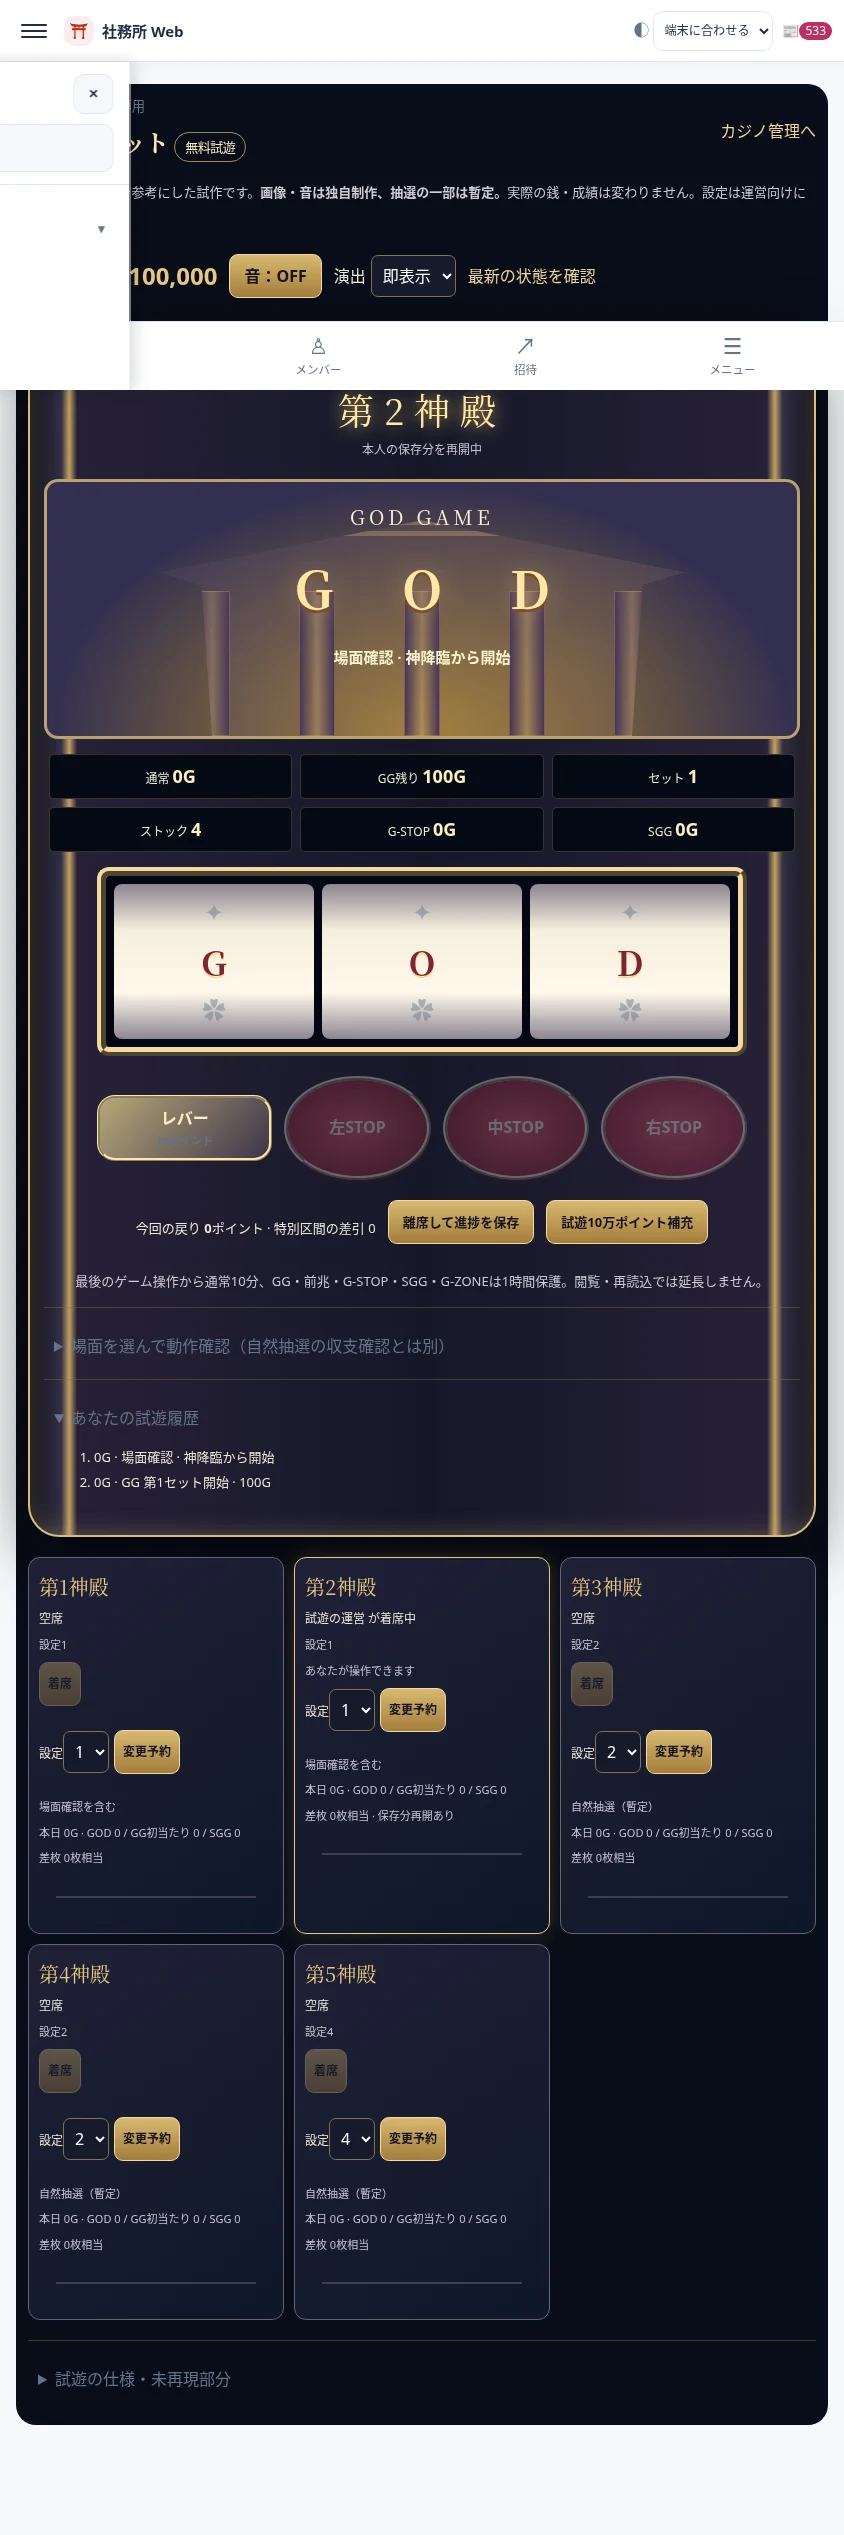
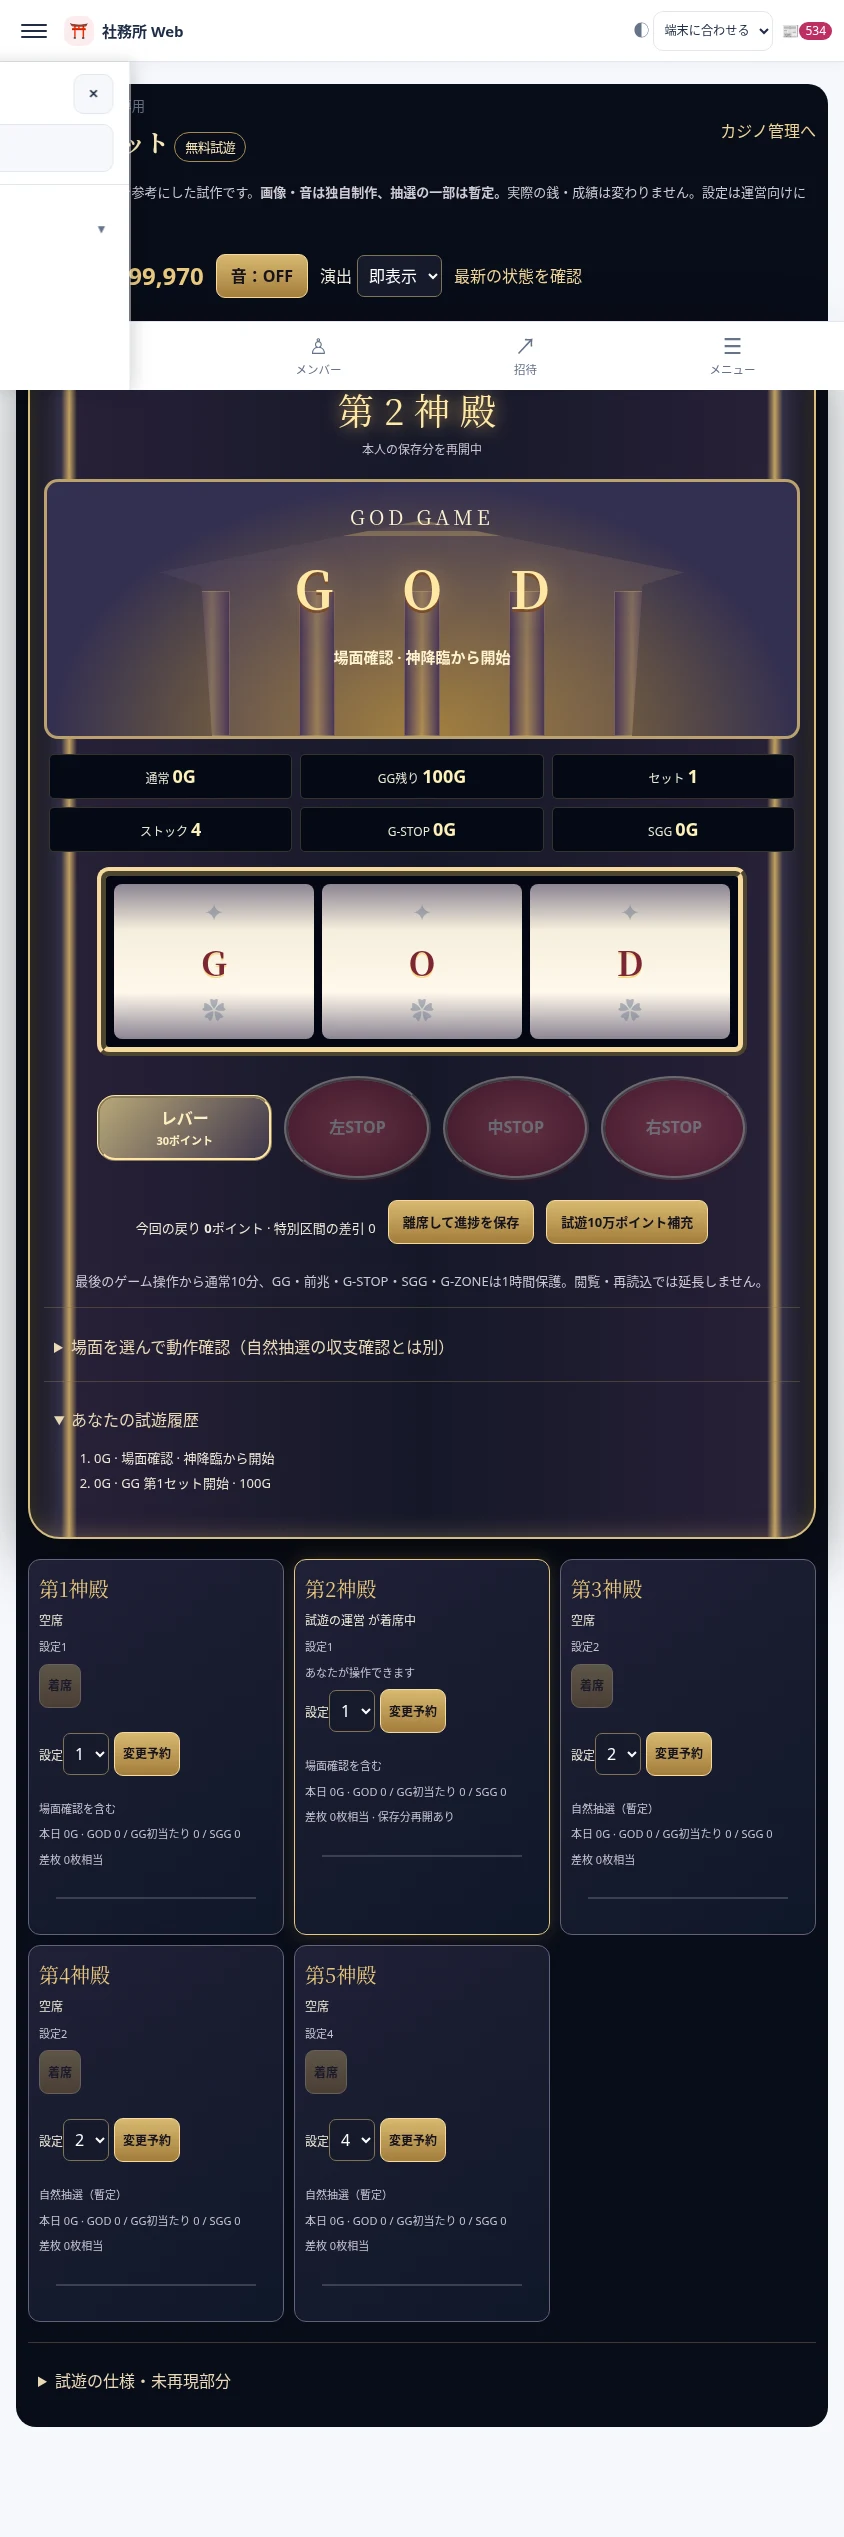
無料試遊の実画面と全件検証の結果を保存する

diff --git a/docs/work-notes.md b/docs/work-notes.md
@@ -1336,3 +1336,6 @@
 - 関連2ファイル21件と型確認成功。ブラウザで送信先参照がinput actionと衝突した不具合を修正後、実操作/STOP途中リロード/保存再開/3サイズが成功（/tmp/gaisen-browser2.log、最新版は再確認中）。
 - 試算18本（各設定10万G×3seed）。初版の暫定抽選は過剰連チャンになり、15枚/3枚役分離と暫定上乗せ頻度を修正。現版も設定1約116〜117%、6約132〜134%で出過ぎ。無料の動作試作のみ、実機同等/実銭公開可能とは扱わない。docs/gaisen-trial-simulation.jsonへ数値保存。
 - 残り：全抽選表/経済調整、詳細再現、復旧/補填専用画面、停止時間補正、完成素材、一般/実銭接続。今回の運営試遊を検証し、型/ビルド/全件を通してPRへ保存する。
+
+- ソース7db71f0で型/ビルド/全209ファイル2,323件成功（477.67秒、4並列）。最終ブラウザも手動操作/途中リロード/別台再開/3幅/音切替、例外/失敗応答0、実残高12,345維持（/tmp/gaisen-browser-final.log）。最新画面をWebP3点へ更新。
+- push直前fetchで本番5cf2a6b（既存カジノCSS/更新履歴/説明）が追加されたため、取り込み後に最終検証し直す。新台のソース変更は行わない。
